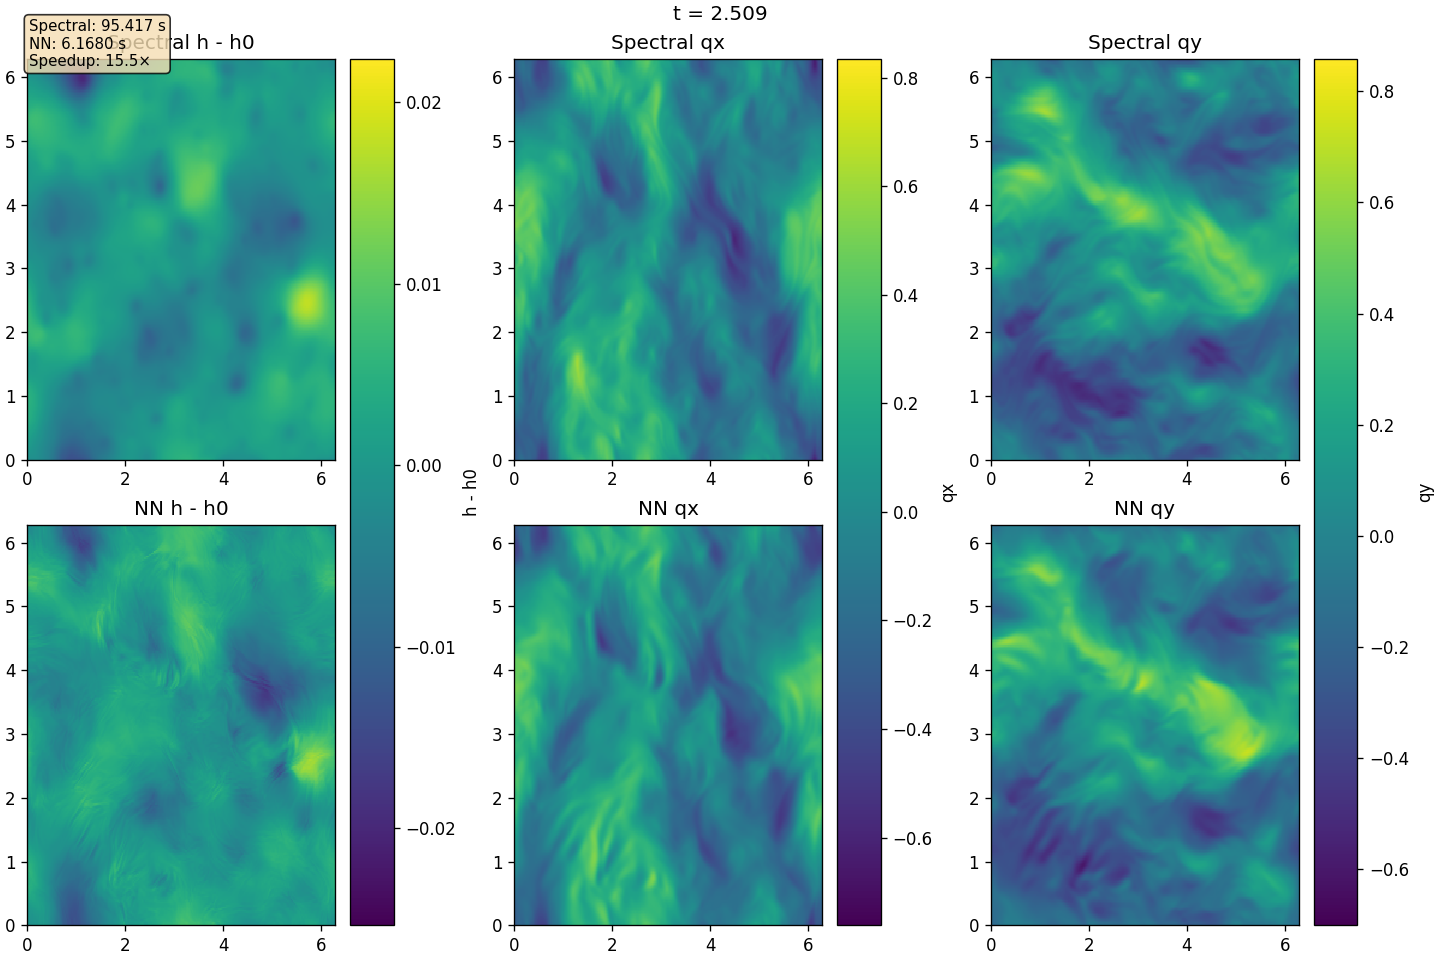
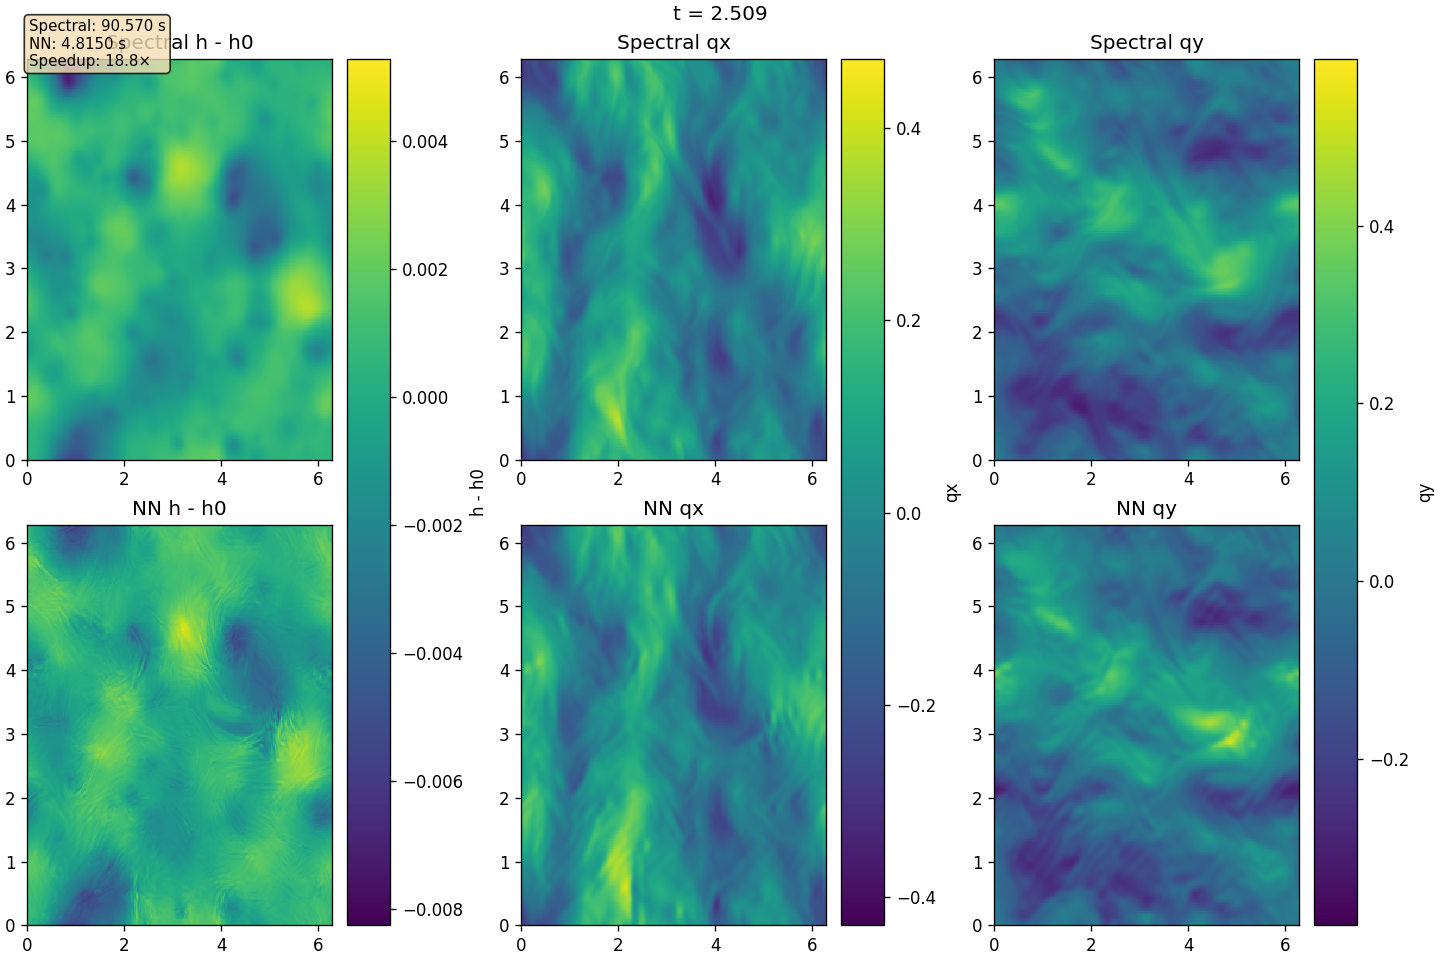
Align wave_2d_nonlinear to MATLAB reference and update report
- TSCREEN 10→20, nu_h→0, nst formula→24, b_size→100, smooth_weight→[1e-2,0,0]
- Add param_ratio=[10,1,1] per-channel data loss weighting in train.py
- IC amplitude 0.9→0.5 in _gen_dist_2d
- Update report.tex parameter table and result metrics for wave_2d_nonlinear
- Add pipeline step 6 (update report) to CLAUDE.md

diff --git a/ml/train.py b/ml/train.py
@@ -17,8 +17,9 @@ from ml.snapshot import save_checkpoint
 
 
 def _run_epochs(model, train_loader, test_loader, optimizer, num_epochs, lr_schedule,
-                smooth_weight=0.0, smooth_mode="absolute"):
+                smooth_weight=0.0, smooth_mode="absolute", param_ratio=None):
     crit = torch.nn.L1Loss(reduction="mean")
+    crit_none = torch.nn.L1Loss(reduction="none")
     hist_tr, hist_te = [], []
     for epoch in range(1, num_epochs + 1):
         lr = next(lr for e, lr in lr_schedule if epoch <= e)
@@ -28,7 +29,11 @@ def _run_epochs(model, train_loader, test_loader, optimizer, num_epochs, lr_sche
         tr = 0.0
         for i, t in train_loader:
             pred = model(i)
-            loss = crit(pred, t)
+            if param_ratio is not None:
+                w = torch.tensor(param_ratio, dtype=torch.float32, device=pred.device)
+                loss = (crit_none(pred, t).mean(dim=(0, 2, 3)) * w).sum()
+            else:
+                loss = crit(pred, t)
             # 支持标量或 per-channel 列表
             C = pred.shape[1]
             if isinstance(smooth_weight, (int, float)):
@@ -57,7 +62,12 @@ def _run_epochs(model, train_loader, test_loader, optimizer, num_epochs, lr_sche
         hist_tr.append(tr)
         model.eval()
         with torch.no_grad():
-            te = sum(crit(model(i), t).item() for i, t in test_loader) / len(test_loader)
+            if param_ratio is not None:
+                w = torch.tensor(param_ratio, dtype=torch.float32, device=next(model.parameters()).device)
+                te = sum((crit_none(model(i), t).mean(dim=(0, 2, 3)) * w).sum().item()
+                         for i, t in test_loader) / len(test_loader)
+            else:
+                te = sum(crit(model(i), t).item() for i, t in test_loader) / len(test_loader)
         hist_te.append(te)
         print(f"Epoch [{epoch}/{num_epochs}], lr={lr:.0e}, Train: {tr:.6f}, Test: {te:.6f}")
     return hist_tr, hist_te
@@ -67,8 +77,10 @@ def _run(model, train_loader, test_loader, cfg, data_dir, **ckpt_extra):
     opt = torch.optim.Adam(model.parameters(), lr=cfg.lr_schedule[0][1])
     smooth_weight = getattr(cfg, "smooth_weight", 0.0)
     smooth_mode = getattr(cfg, "smooth_mode", "absolute")
+    param_ratio = getattr(cfg, "param_ratio", None)
     hist_tr, hist_te = _run_epochs(model, train_loader, test_loader, opt, cfg.num_epochs, cfg.lr_schedule,
-                                   smooth_weight=smooth_weight, smooth_mode=smooth_mode)
+                                   smooth_weight=smooth_weight, smooth_mode=smooth_mode,
+                                   param_ratio=param_ratio)
     save_checkpoint(model, opt, cfg.num_epochs, hist_tr, hist_te, os.path.join(data_dir, cfg.model_pth), **ckpt_extra)
     savemat(os.path.join(data_dir, cfg.error_mat), {"train_err": hist_tr, "test_err": hist_te})
     plot_training_history(hist_tr, hist_te, os.path.join(data_dir, "training_history.png"))

diff --git a/latex/report.tex b/latex/report.tex
@@ -96,18 +96,22 @@ The goal is to learn a local map on a small spatial element or patch from data p
     Grid $n_x\times n_y$ & $256\times256$ \\
     Domain $L_x=L_y$ & $2\pi$ \\
     $g$, $h_0$ & 9.8, 1.0 \\
-    Steps per saved frame $T_{\mathrm{screen}}$ & 10 \\
-    Patch half-width $n_{\mathrm{st}}$ & 10 \\
+    Steps per saved frame $T_{\mathrm{screen}}$ & 20 \\
+    Patch half-width $n_{\mathrm{st}}$ & 24 \\
     Interior width $n_{\mathrm{wd}}$ & 32 \\
-    Warmup time & 4.0 \\
+    Viscosity $\nu_h$ & 0 \\
+    Nudging coefficient & 1.0 \\
+    Batch size & 100 \\
+    Warmup time & 6.0 \\
     Compare $T_F$ & 3.0 \\
     Compare frames & 8 \\
     Compare IC & random \\
     Training samples & 5000 \\
     Epochs & 150 \\
-    CNN base channels & 48 \\
-    TV smooth weight & [0.0, 0.02, 0.02] \\
-    TV smooth mode & relative \\
+    CNN base channels & 32 \\
+    TV smooth weight & [1e-2, 0, 0] \\
+    TV smooth mode & absolute \\
+    Data loss channel weights & [10, 1, 1] \\
     \bottomrule
   \end{tabular}
 \end{table}
@@ -176,7 +180,7 @@ Comparison at 6 aligned frames with \texttt{compare\_TF=1.0} and \texttt{compare
 \end{figure}
 
 \subsection{2D nonlinear shallow water: Spectral vs. NN}
-Comparison at 8 aligned frames for $(h-h_0,q_x,q_y)$ with \texttt{compare\_TF=3.0} and \texttt{compare\_ic=random}. Both rollouts start after warmup time $T=4.0$. Final rollout metrics for this run: mean L1 error $0.034743$, max-frame L1 error $0.077908$, spectral runtime $116.512$\,s, NN runtime $6.8015$\,s, speedup $17.13\times$.
+Comparison at 8 aligned frames for $(h-h_0,q_x,q_y)$ with \texttt{compare\_TF=3.0} and \texttt{compare\_ic=random}. Both rollouts start after warmup time $T=6.0$. Final rollout metrics for this run: mean L1 error $0.008592$, max-frame L1 error $0.015684$, spectral runtime $108.152$\,s, NN runtime $5.6242$\,s, speedup $19.23\times$.
 
 \begin{figure}[H]
   \centering

diff --git a/config/wave_2d_nonlinear_config.py b/config/wave_2d_nonlinear_config.py
@@ -10,13 +10,13 @@ c = np.sqrt(g * h0)
 dx = Lx / nx
 dy = Ly / ny
 f_coriolis = 0.0
-nudging_coeff = 0.0  # h nudging toward h0 (0 = disabled)
+nudging_coeff = 1.0  # h nudging toward h0 (0 = disabled)
 
 # Time (solver: dt = 0.5*min(dx,dy)/c, frames every TSCREEN steps)
 TF = 10.0
-TSCREEN = 10
+TSCREEN = 20
 dt_internal = 0.5 * min(dx, dy) / c   # must match pde/wave_2d_nonlinear.py
-nu_h = 1e-3 * (min(dx, dy) ** 2) / dt_internal
+nu_h = 0.0
 nu_q = 1e-3 * (min(dx, dy) ** 2) / dt_internal
 dt_samp = TSCREEN * dt_internal        # time between saved frames
 
@@ -25,8 +25,8 @@ nwd = 32
 njp = 2
 
 # Patch stencil: halo per side from CFL (wave travels ~c over njp*dt_samp); CNN needs (patch_side - nwd) divisible by 4 and >= 4
-nst_min = c * njp * dt_samp / dx
-nst = max(2, int(np.ceil(nst_min / 2)) * 2)   # smallest even integer >= nst_min, at least 2 for CNN
+_nst_min = round(c * njp * dt_samp / dx)   # ≈ njp*TSCREEN/2 (exact int, round guards float drift)
+nst = 4 * (_nst_min // 4 + 1)
 patch_side = nwd + 2 * nst
 
 
@@ -37,14 +37,15 @@ ic_list = ["random", "ring"]
 #ic_list = ["random"]
 
 # Training
-b_size = 128
+b_size = 100
 num_epochs = 150
 base = 32        # CNN base channels (sweep best: base64_ep150)
 lr_schedule = [(60, 3e-4), (110, 1e-4), (140, 3e-5), (150, 1e-5)]
-smooth_weight = [0.01, 0.05, 0.05]   # per-channel [h-h0, qx, qy]
+smooth_weight = [1e-2, 0.0, 0.0]      # per-channel [h-h0, qx, qy]
 smooth_mode = "absolute"   # "absolute" | "relative"
+param_ratio   = [10.0, 1.0, 1.0]     # h 通道数据损失×10
 
-warmup_T = 5.0   # frames before this time are excluded from training
+warmup_T = 6.0   # frames before this time are excluded from training
 
 # Compare (reference vs NN rollout)
 compare_TF = 3.0

diff --git a/pde/wave_2d_nonlinear.py b/pde/wave_2d_nonlinear.py
@@ -19,7 +19,7 @@ def _gen_dist_2d(xgrid, ygrid, alpha, rng):
     X -= np.mean(X)
     max_abs = np.max(np.abs(X))
     if max_abs > 0:
-        X = 0.9 * X / max_abs
+        X = 0.5 * X / max_abs
     return X
 
 

diff --git a/CLAUDE.md b/CLAUDE.md
@@ -34,8 +34,7 @@
 3. 训练：`python -m ml.train --problem <问题名>`
 4. 对比：`python compare.py --problem <问题名>`
 5. 拷图：将 `data/<问题名>/training_history.png` 和 `data/<问题名>/compare/*.png` 拷到 `latex/figures/<问题名>/`
-
-注意：pipeline 到拷图结束即可；仓库中不再维护 `latex/report.tex`，也不需要编译 PDF。
+6. 更新报告：将 `latex/report.tex` 中对应问题的参数表和结果数值更新到最新值
 
 ## 并行与顺序
 - 数据生成三个问题可并行执行
